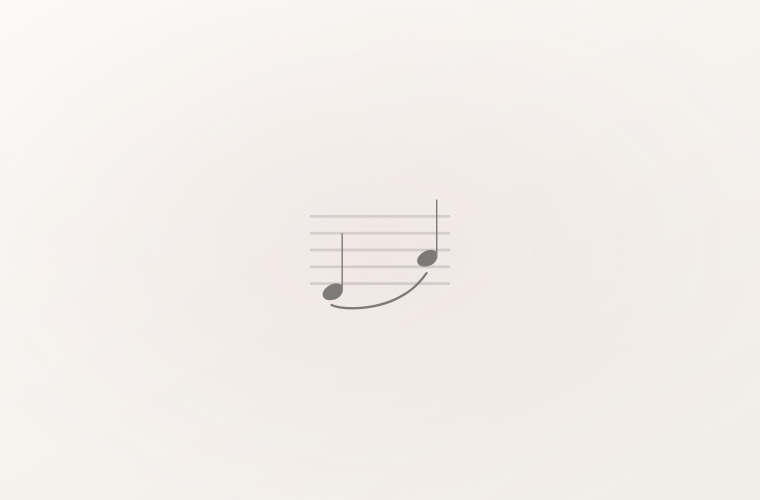
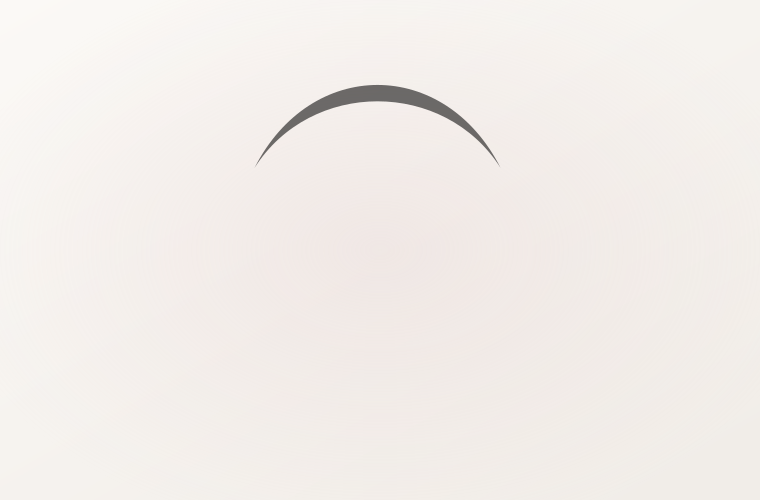
Use authentic same-height slur in DMG layout

diff --git a/Distribution/DMG/Attribution.md b/Distribution/DMG/Attribution.md
@@ -1,11 +1,11 @@
 # DMG artwork attribution
 
-`Music-slur.svg` is **Music-slur.svg**, an illustration of a musical slur by
-Denelson83, vectorized by Ekips39, from Wikimedia Commons:
-<https://commons.wikimedia.org/wiki/File:Music-slur.svg>.
+`Music-slur.svg` is **Musical Slur.svg** by 京市 from Wikimedia Commons:
+<https://commons.wikimedia.org/wiki/File:Musical_Slur.svg>.
 
-The asset is available under either the GNU Free Documentation License 1.2 or
-later, or Creative Commons Attribution-ShareAlike 3.0 Unported. The source SVG
-is included unchanged. The DMG background places the asset at reduced opacity.
+The asset is available under the Creative Commons Attribution-ShareAlike 3.0
+Unported license. The source SVG is included unchanged. The DMG background flips
+the curve vertically, scales it to span the gap above the app icons, and lowers
+its opacity. It contains only the slur curve, with no notes or staff lines.
 
 The original SVG and its license terms are available at the source page above.
